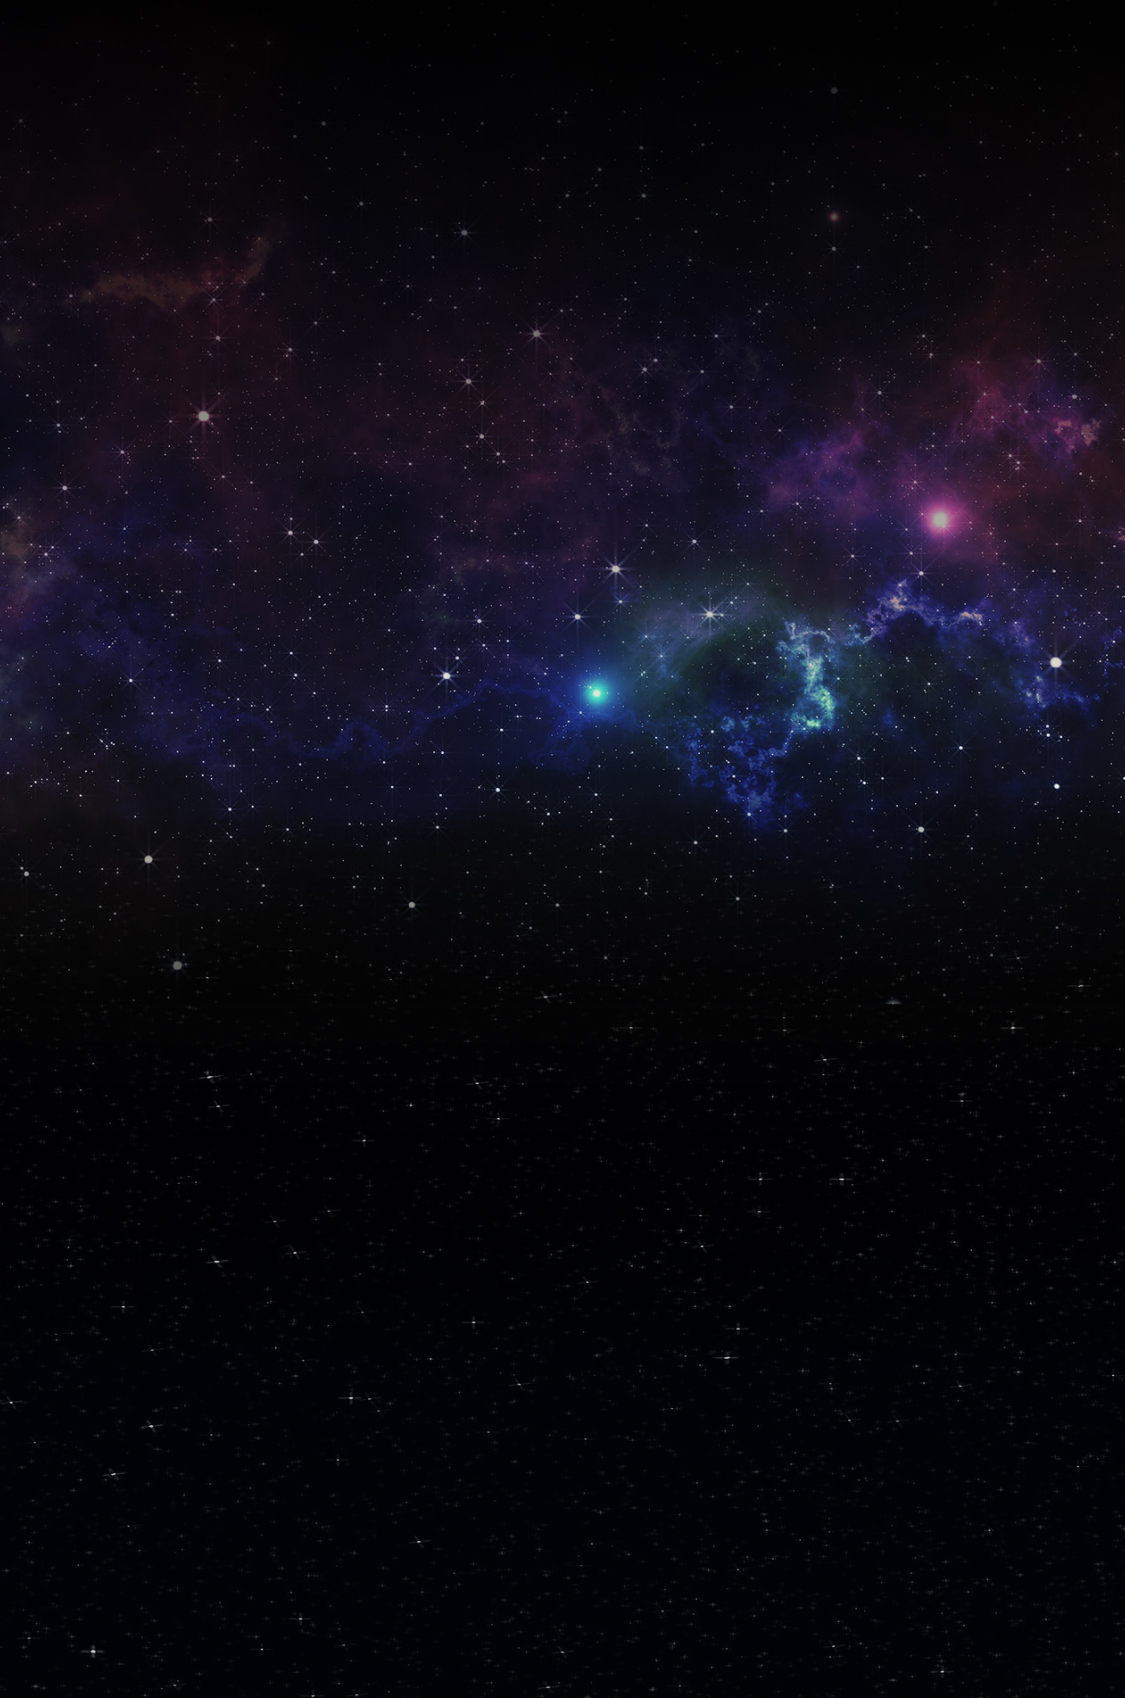
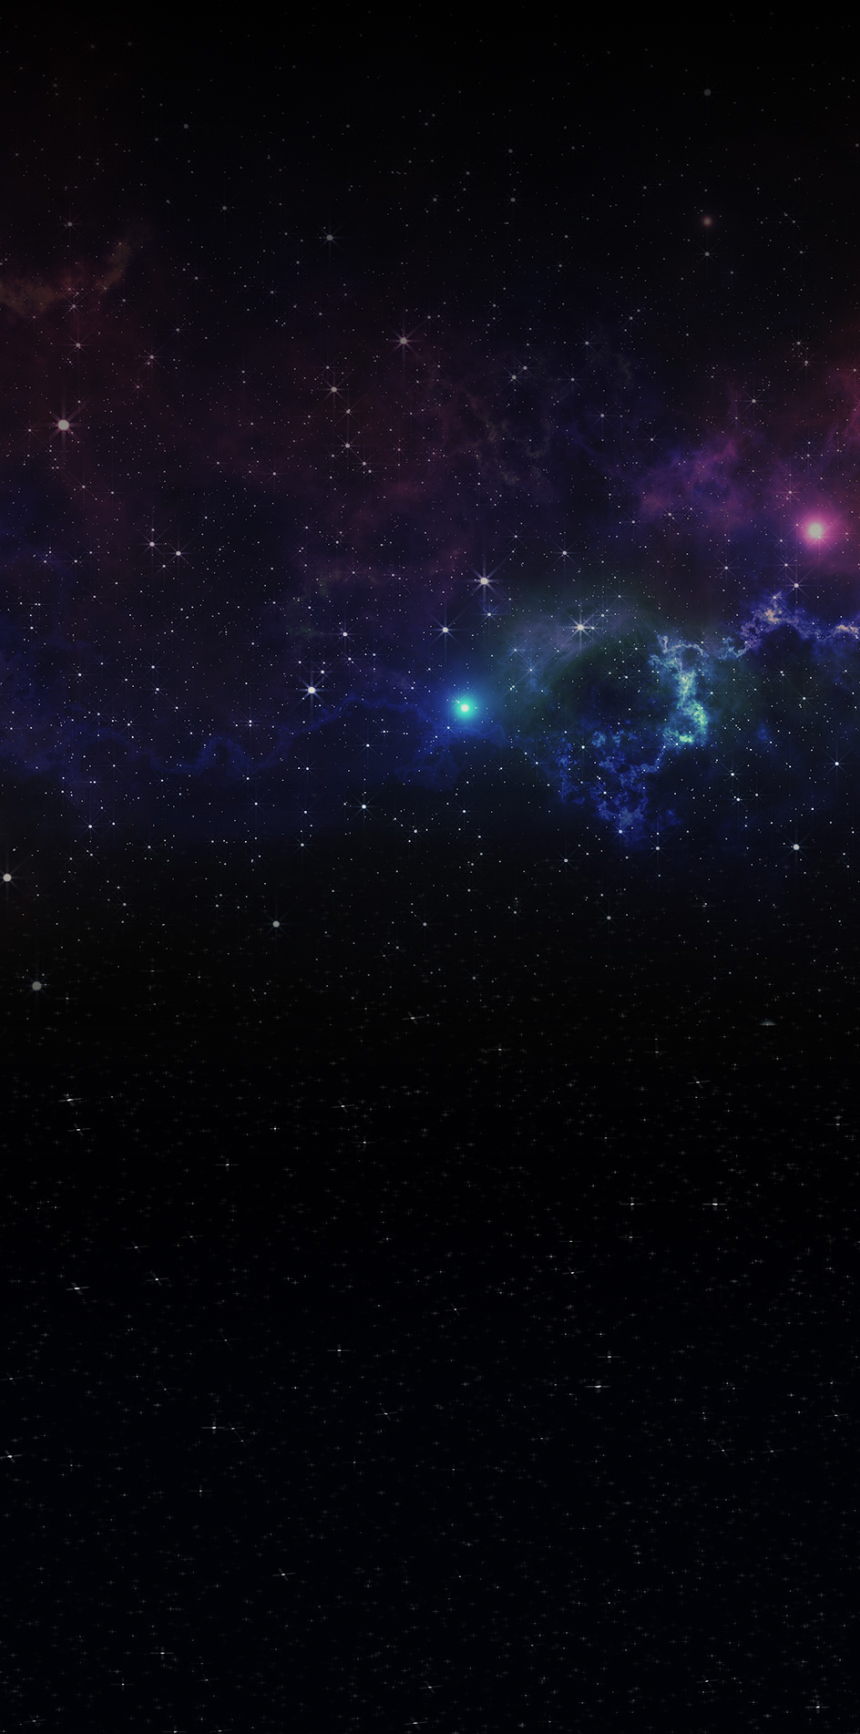
feat: update tooltip enable quick bet first login

diff --git a/src/styles/components/_popover.scss b/src/styles/components/_popover.scss
@@ -1,0 +1,34 @@
+.popover-custom {
+    position: absolute;
+    line-height: 2rem;
+    padding: 1.2rem;
+    border-radius: 1rem;
+    box-shadow: 0 0.2rem 0.4rem rgba(0, 0, 0, 0.4);
+    background: linear-gradient(90deg, rgba(94, 54, 242, 1) 0%, rgba(110, 75, 240, 1) 100%);
+    color: #fff;
+
+    &:before,
+    &:after {
+        content: "";
+        position: absolute;
+    }
+
+    &.top:after {
+        bottom: -1.6rem;
+        right: 1.6rem;
+        border: 0.8rem solid;
+        border-color: #6c49f0 transparent transparent transparent;
+    }
+
+    &.bottom:before {
+        top: -1.5rem;
+        right: 1.6rem;
+        border: 0.8rem solid;
+        border-color: transparent transparent #6c49f0 transparent;
+    }
+
+    .btn {
+        height: 3.6rem;
+        line-height: 3.6rem;
+    }
+}

diff --git a/src/components/page-components/bet-settings/quick-bet-btn/index.tsx b/src/components/page-components/bet-settings/quick-bet-btn/index.tsx
@@ -100,7 +100,7 @@ export const QuickBetBtn = () => {
                 <button id="btn-cancel-quickbet" className={`btn-grey ${Styles["btn"]}`} onClick={closeHintTooltip}>
                     {t("button_cancel")}
                 </button>
-                <button id="btn-on-quickbet" className={`btn-red ${Styles["btn"]}`} onClick={onEnableFirstLogin}>
+                <button id="btn-on-quickbet" className={`btn-green ${Styles["btn"]}`} onClick={onEnableFirstLogin}>
                     {t("button_enable_quickbet")}
                 </button>
             </div>

diff --git a/src/components/page-components/bet-settings/quick-bet-btn/quick-bet-btn.module.scss b/src/components/page-components/bet-settings/quick-bet-btn/quick-bet-btn.module.scss
@@ -107,7 +107,7 @@
 
         &:before {
             bottom: -1.5rem;
-            border-color: #fff1b2 transparent transparent transparent;
+            border-color: #6c49f0 transparent transparent transparent;
             top: unset;
         }
     }

diff --git a/src/styles/main.scss b/src/styles/main.scss
@@ -15,6 +15,7 @@
 @import "./components/swiper";
 @import "./components/animations/star-field";
 @import "./components/ripple-effect";
+@import "./components/popover";
 
 html {
     font-size: 10px !important;

diff --git a/src/styles/components/animations/_star-field.scss b/src/styles/components/animations/_star-field.scss
@@ -6,7 +6,7 @@ $delay3: $duration + $delay2 - 1;
 
 .background-galaxy {
     position: absolute;
-    top: 0;
+    top: 3.2rem;
     left: 0;
     width: 100%;
     opacity: 1;
